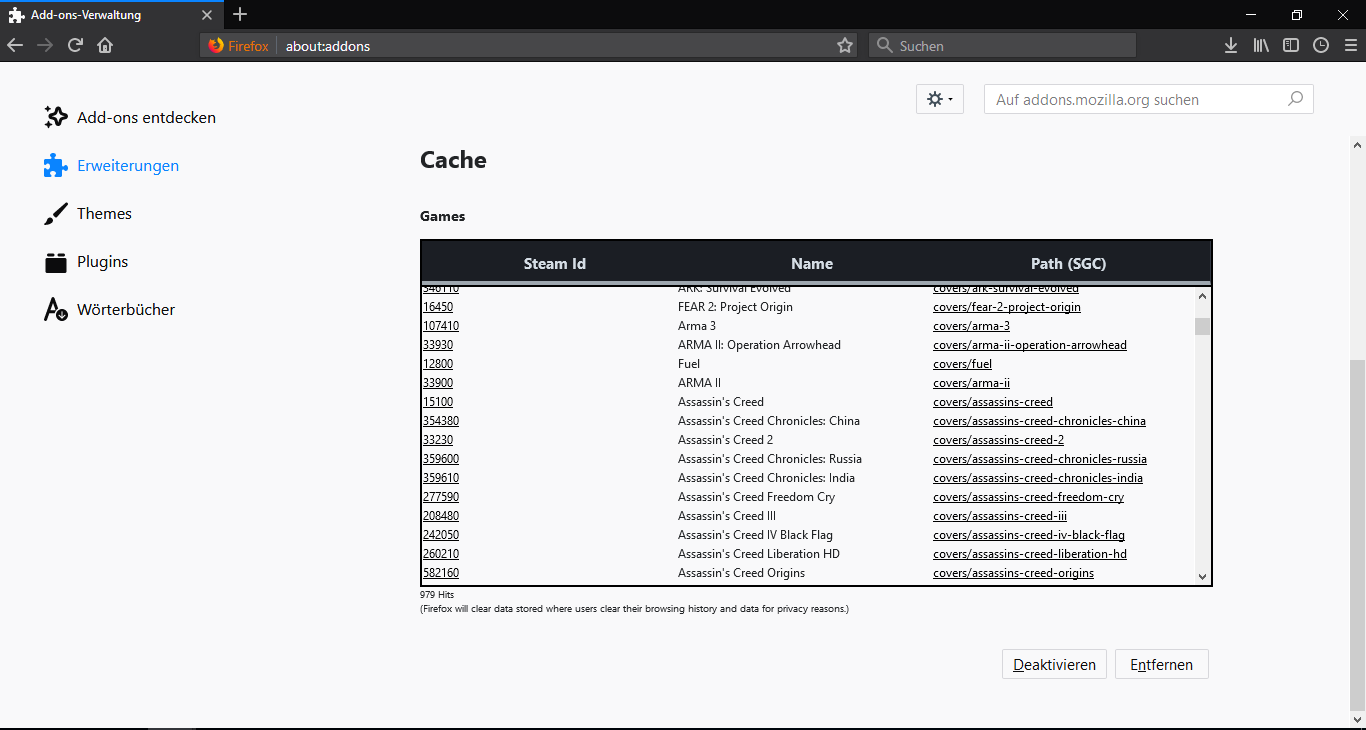
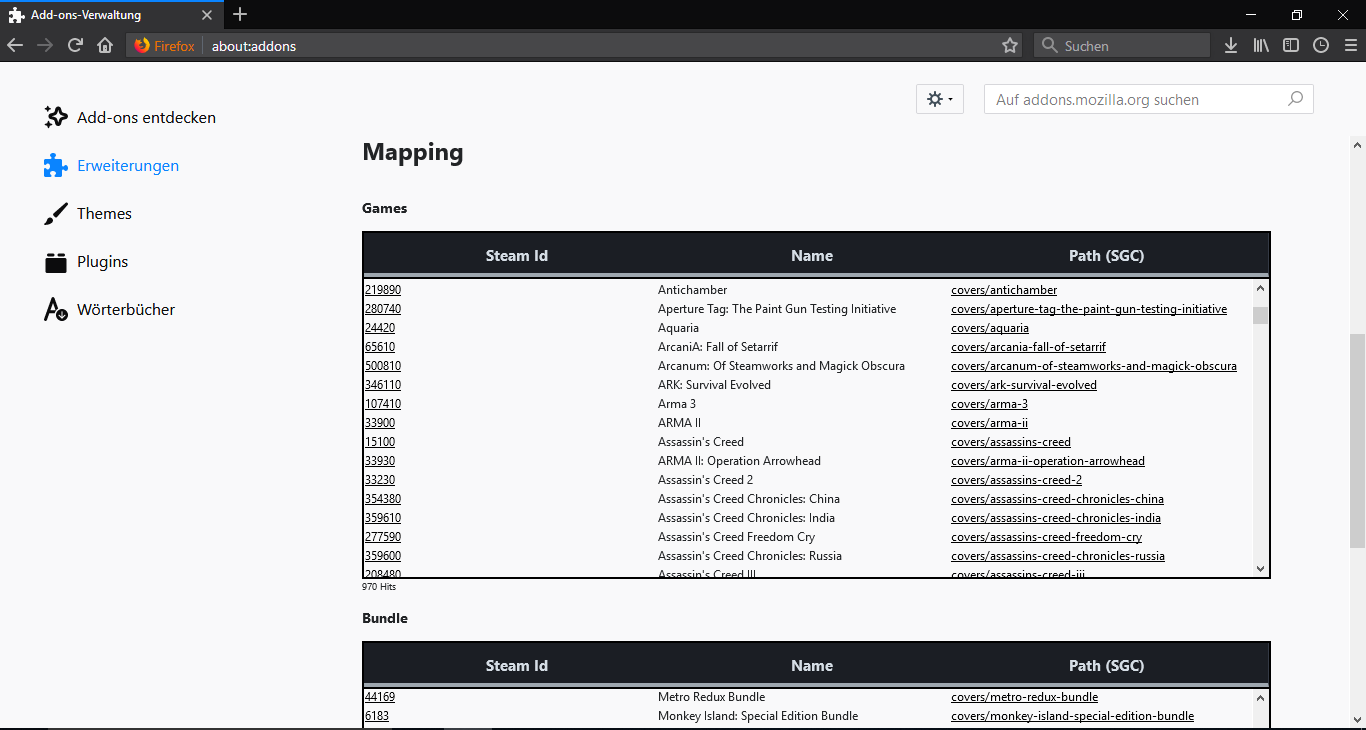
Version 1.1 Angepasst für alle Browser. Bundle werden nun seperat aufgelsitet

diff --git a/src/steamgamecoverconnection.js b/src/steamgamecoverconnection.js
@@ -14,20 +14,18 @@ function makeHttpObject() {
 function updateGameData(doneCallback)
 {
 	//var GameStorage = window.localStorage.getItem("game");
-	
 	var stateBar = document.getElementById("MappingSteamGameCoverProgressBar");
 	if(stateBar == null)
 	{
 		stateBar = document.createElement('div');
 		stateBar.id = "MappingSteamGameCoverProgressBar";
-		stateBar.setAttribute("style", " position: absolute; left: 0px; top: 0px; z-index: 100; padding:5px; background-color: coral; color: black;"); 
-		stateBar.innerHTML = "loading...";
+		stateBar.setAttribute("style", " position: fixed; left: 0px; top: 0px; z-index: 999999; padding:5px; background-color: coral; color: black;"); 
+		stateBar.innerHTML = "Updating Steam-Game-Covers...";
 		stateBar.style.display = "none";
 		document.getElementById("game_area_purchase").appendChild(stateBar);
 	}
 
-	chrome.storage.local.get("game", function(result) {
-		
+	browser.storage.local.get("game", function(result) {
 		var gameStorage = result.game;
 		
 		if(gameStorage == null)
@@ -39,7 +37,8 @@ function updateGameData(doneCallback)
 		request.onreadystatechange = function () {
 			
 			if (request.readyState === 4) {
-				if (request.status === 200) {  
+				if (request.status === 200) { 
+				
 					var htmlDoc = request.responseText;
 					
 					htmlDoc = htmlDoc.substring(htmlDoc.indexOf('<div class="gameList" style="float:left;">'));
@@ -60,6 +59,7 @@ function updateGameData(doneCallback)
 						if(startUrlIndex > 5)
 						{
 							var item = {
+								"steamType" : null,
 								"steamId" : null,
 								"name" : null,
 								"path" : null,
@@ -90,7 +90,7 @@ function updateGameData(doneCallback)
 											
 											addSteamIdToGameStorageItem(item, function(newItem){
 												gameStorage.push(newItem);
-												chrome.storage.local.set({game: gameStorage}, null);
+												browser.storage.local.set({game: gameStorage}, null);
 												
 												updateStateBar(stateBar, progress++, items.length, doneCallback);
 											});
@@ -130,6 +130,10 @@ function updateGameData(doneCallback)
 					//alert("Error: (" + request.status +") "+request.statusText);			   
 				} 			
 			}
+			else
+			{
+				//alert("Error: request.readyState: "+request.readyState);
+			}
 			
 		};
 		
@@ -141,7 +145,7 @@ function updateGameData(doneCallback)
 function updateStateBar(stateBar, progress, max, doneCallback)
 {
 	stateBar.style.display = "block";
-	stateBar.innerHTML = "loading... ("+progress+ " / " +max+ ")";
+	stateBar.innerHTML = "Updating Steam-Game-Covers... ("+progress+ " / " +max+ ")";
 	if(progress >= max)
 	{
 		document.getElementById("game_area_purchase").removeChild(stateBar);
@@ -164,6 +168,7 @@ function addSteamIdToGameStorageItem(item, callback)
 			if(startIndex >= 0)
 			{
 				startIndex = startIndex + 21;
+				item.steamType = "app";
 			}
 			else
 			{
@@ -171,8 +176,48 @@ function addSteamIdToGameStorageItem(item, callback)
 				if(startIndex >= 0)
 				{
 					startIndex = startIndex + 23;
+					item.steamType = "app";
 				}
 			}
+			
+			if(startIndex < 0)
+			{
+				startIndex = htmlDoc.indexOf('steampowered.com/sub/');
+				if(startIndex >= 0)
+				{
+					startIndex = startIndex + 21;
+					item.steamType = "sub";
+				}
+				else
+				{
+					startIndex = htmlDoc.indexOf('steamcommunity.com/sub/');
+					if(startIndex >= 0)
+					{
+						startIndex = startIndex + 23;
+						item.steamType = "sub";
+					}
+				}
+			}
+			
+			if(startIndex < 0)
+			{
+				startIndex = htmlDoc.indexOf('steampowered.com/bundle/');
+				if(startIndex >= 0)
+				{
+					startIndex = startIndex + 24;
+					item.steamType = "bundle";
+				}
+				else
+				{
+					startIndex = htmlDoc.indexOf('steamcommunity.com/bundle/');
+					if(startIndex >= 0)
+					{
+						startIndex = startIndex + 26;
+						item.steamType = "bundle";
+					}
+				}
+			}
+			
 			
 			if(startIndex >= 0)
 			{
@@ -212,7 +257,7 @@ function addSteamIdToGameStorageItem(item, callback)
 
 function getCoverArray(callback, firstTry)
 {
-	chrome.storage.local.get("game", function(result) {
+	browser.storage.local.get("game", function(result) {
 		
 		var gameStorage = result.game;
 		var dataArray = [];
@@ -241,7 +286,7 @@ function getCoverArray(callback, firstTry)
 		}
 
 		var gameStorageItem = gameStorage[gameStorageItemIndex];
-		
+	
 		var request = new XMLHttpRequest();
 		request.open("GET", "http://www.steamgamecovers.com/"+gameStorageItem.path, false);
 		request.send();

diff --git a/src/settings/settings.js b/src/settings/settings.js
@@ -8,7 +8,10 @@ function start()
 		
 		var GameStorage = result.game;
 		
-		var table = document.getElementById("cacheGamesTable").childNodes[3];
+		var gameTable = document.getElementById("GamesTable").childNodes[3];
+		var gameTableCount = 0;
+		var packageTable = document.getElementById("PackageTable").childNodes[3];
+		var packageTableCount = 0;
 		
 		for(var i = 0; i < GameStorage.length; i++)
 		{
@@ -25,7 +28,7 @@ function start()
 			
 			if(GameStorage[i].steamId != "" && GameStorage[i].steamId != null)
 			{
-				column1.innerHTML = "<a href='https://store.steampowered.com/app/"+GameStorage[i].steamId+"' alt='"+GameStorage[i].steamId+"'>"+GameStorage[i].steamId+"</a>";
+				column1.innerHTML = "<a href='https://store.steampowered.com/"+GameStorage[i].steamType+"/"+GameStorage[i].steamId+"' alt='"+GameStorage[i].steamId+"'>"+GameStorage[i].steamId+"</a>";
 			}
 			column2.innerHTML = GameStorage[i].name;
 			column3.innerHTML = "<a href='http://steamgamecovers.com/"+GameStorage[i].path+"' alt='"+GameStorage[i].path+"'>"+GameStorage[i].path+"</a>";
@@ -34,9 +37,19 @@ function start()
 			row.appendChild(column2);
 			row.appendChild(column3);
 			
-			table.appendChild(row);
+			if(GameStorage[i].steamType == "app")
+			{
+				gameTable.appendChild(row);
+				gameTableCount++;
+			}
+			else
+			{
+				packageTable.appendChild(row);
+				packageTableCount++;
+			}
 		}
-		cacheGamesTableHits.innerHTML = GameStorage.length+" Hits";
+		GamesTableHits.innerHTML = gameTableCount + " Hits";
+		PackageTableHits.innerHTML = packageTableCount + " Hits";
     });
 }
 

diff --git a/src/settings/index.html b/src/settings/index.html
@@ -7,9 +7,9 @@
 	</head>
 
   <body onload="start()">
-	<h1>Cache</h1>
+	<h1>Mapping</h1>
 	<h3>Games</h3>
-    <table id="cacheGamesTable">
+    <table id="GamesTable">
 		<thead>
 			<tr>
 				<th>
@@ -27,8 +27,33 @@
 		</tbody>
     </table><br/>
 	<small>
-		<div id="cacheGamesTableHits"></div>
+		<div id="GamesTableHits"></div>
 	</small>
+	<br/>
+	<br/>
+	<h3>Bundle</h3>
+    <table id="PackageTable">
+		<thead>
+			<tr>
+				<th>
+					Steam Id
+				</th>
+				<th>
+					Name
+				</th>
+				<th>
+					Path (SGC)
+				</th>
+			</tr>
+		</thead>
+		<tbody>
+		</tbody>
+    </table><br/>
+	<small>
+		<div id="PackageTableHits"></div>
+	</small>
+	<br/>
+	<br/>
 	<br/>
 	<br/>
 	<small>

diff --git a/src/installed/installed.js b/src/installed/installed.js
@@ -1,0 +1,3 @@
+browser.runtime.onInstalled.addListener(function (object) {
+    browser.tabs.create({url: "https://bitbucket.org/domidodo/steam-game-covers-add-on/wiki/Sync"}, null);
+});
